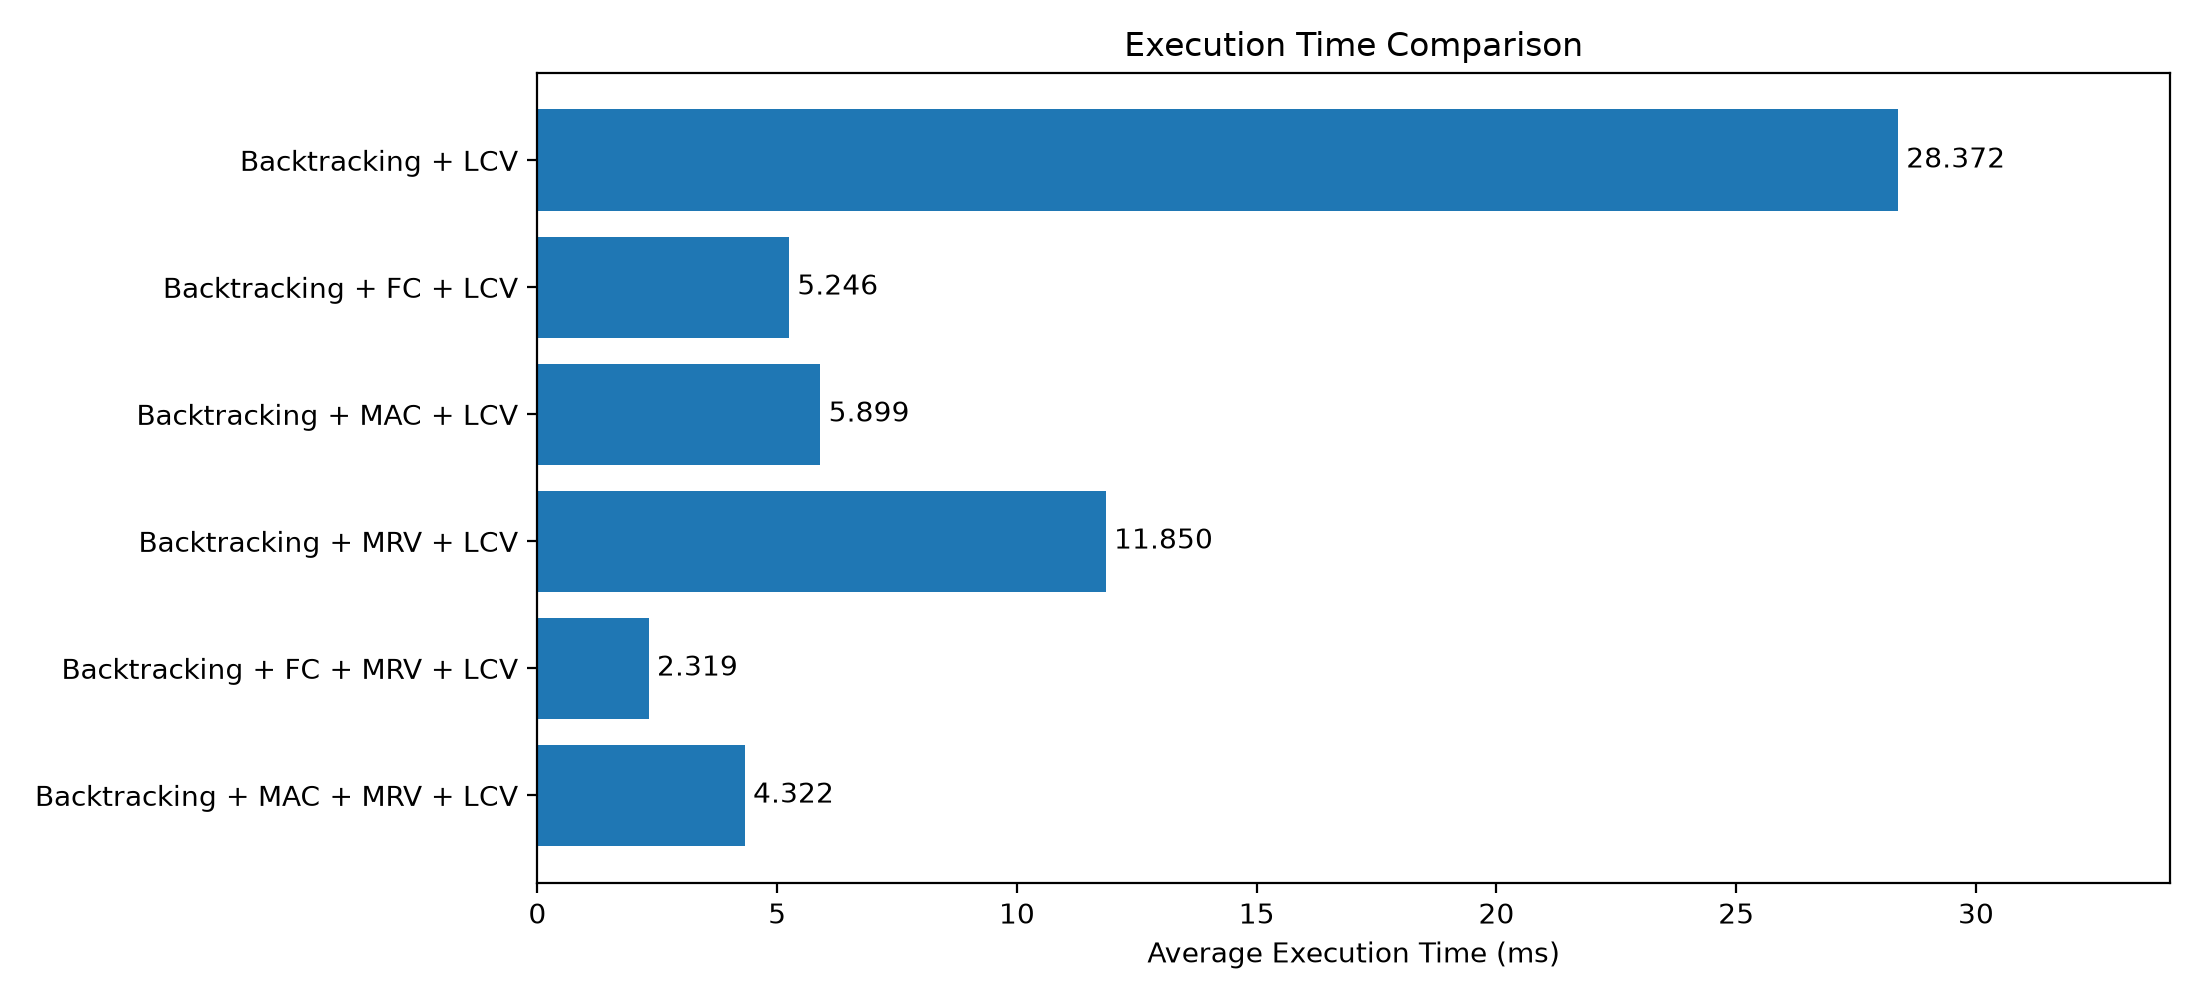
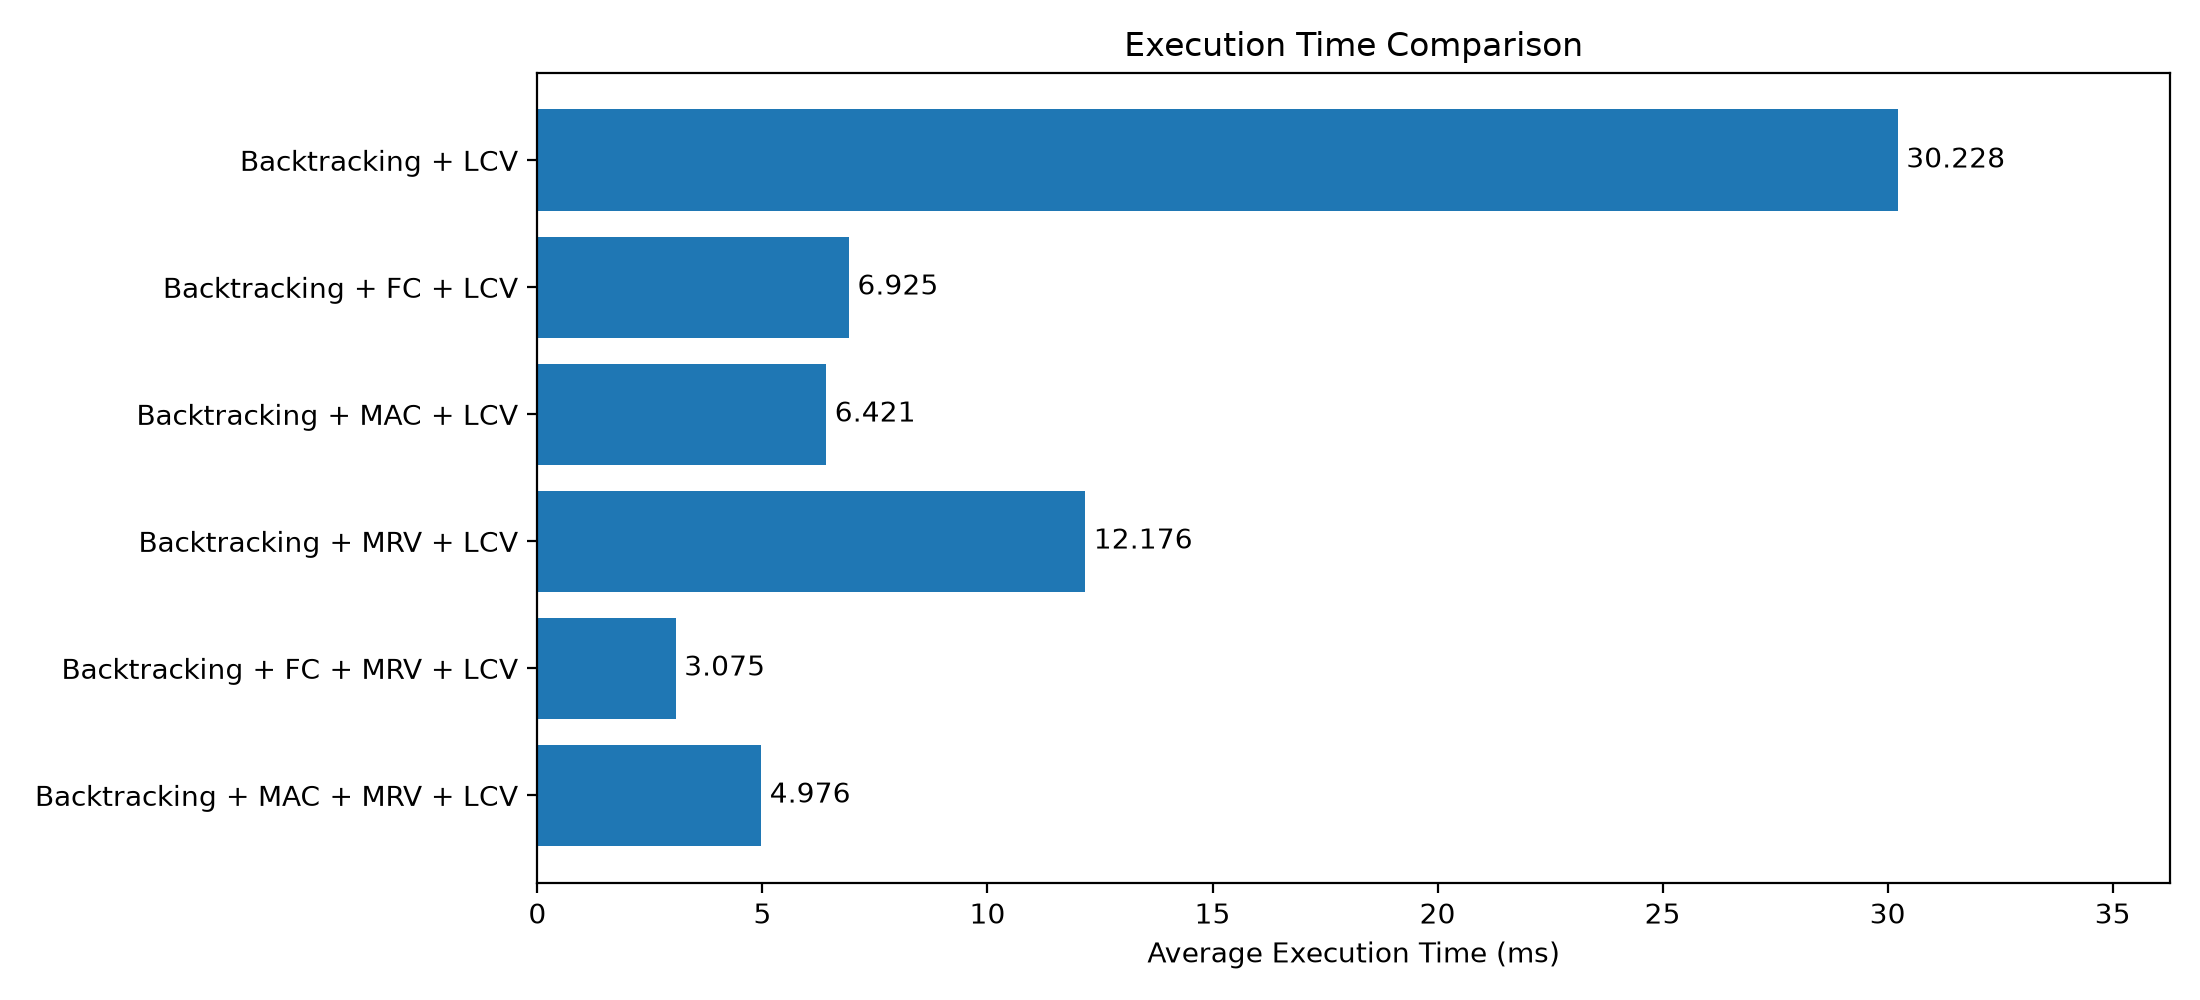
Add  code comments

diff --git a/main.py b/main.py
@@ -2,10 +2,12 @@ from copy import deepcopy
 from time import perf_counter
 from statistics import mean, median
 
-from sudoku import grid
+from sudoku import grid, validate_solution
+
 from solver import backtracking
 from visualize import visualize_solutions, visualize_benchmark
 
+# Define the six CSP approaches
 methods = [
     ("Backtracking + LCV", False, "none"),
     ("Backtracking + FC + LCV", False, "fc"),
@@ -19,6 +21,7 @@ solutions = {}
 benchmark_results = []
 repetitions = 30
 
+# Run each algorithm 30 times
 for name, use_mrv, inference in methods:
 
     times = []
@@ -27,6 +30,7 @@ for name, use_mrv, inference in methods:
 
     for run in range(repetitions):
 
+        # Use a fresh copy of the original Sudoku
         board = deepcopy(grid)
 
         stats = {
@@ -34,6 +38,7 @@ for name, use_mrv, inference in methods:
             "assignments": 0
         }
 
+        # Measure execution time
         start = perf_counter()
 
         solved = backtracking(
@@ -46,16 +51,19 @@ for name, use_mrv, inference in methods:
         end = perf_counter()
         elapsed_ms = (end - start) * 1000
 
-        if not solved:
-            raise RuntimeError(f"Sudoku could not be solved: {name}")
+        # Validate the completed solution
+        if not solved or not validate_solution(board, grid):
+            raise RuntimeError(f"Invalid Sudoku solution: {name}")
 
         times.append(elapsed_ms)
         backtracks.append(stats["backtracks"])
         assignments.append(stats["assignments"])
 
+        # Save one solution for visualization
         if run == 0:
             solutions[name] = deepcopy(board)
 
+    # Calculate benchmark statistics
     average_time = mean(times)
     median_time = median(times)
 
@@ -72,6 +80,7 @@ for name, use_mrv, inference in methods:
     if len(set(backtracks)) != 1 or len(set(assignments)) != 1:
         print("Warning: operation counts varied between runs.")
 
+    # Store results for performance charts
     benchmark_results.append({
         "name": name,
         "mean_ms": average_time,
@@ -79,5 +88,6 @@ for name, use_mrv, inference in methods:
     })
 
 
+# Generate Sudoku and benchmark visualizations
 visualize_solutions(solutions, grid)
 visualize_benchmark(benchmark_results)

diff --git a/sudoku.py b/sudoku.py
@@ -89,4 +89,34 @@ def initialize_domains(grid):
 
     return domains
 
+def validate_solution(board, original_grid):
 
+    digits = set(range(1, 10))
+
+    for row in range(9):
+        if set(board[row]) != digits:
+            return False
+
+    for col in range(9):
+        if {board[row][col] for row in range(9)} != digits:
+            return False
+
+    for box_row in range(0, 9, 3):
+        for box_col in range(0, 9, 3):
+
+            box = {
+                board[row][col]
+                for row in range(box_row, box_row + 3)
+                for col in range(box_col, box_col + 3)
+            }
+
+            if box != digits:
+                return False
+
+    for row in range(9):
+        for col in range(9):
+            if original_grid[row][col] != 0:
+                if board[row][col] != original_grid[row][col]:
+                    return False
+
+    return True
